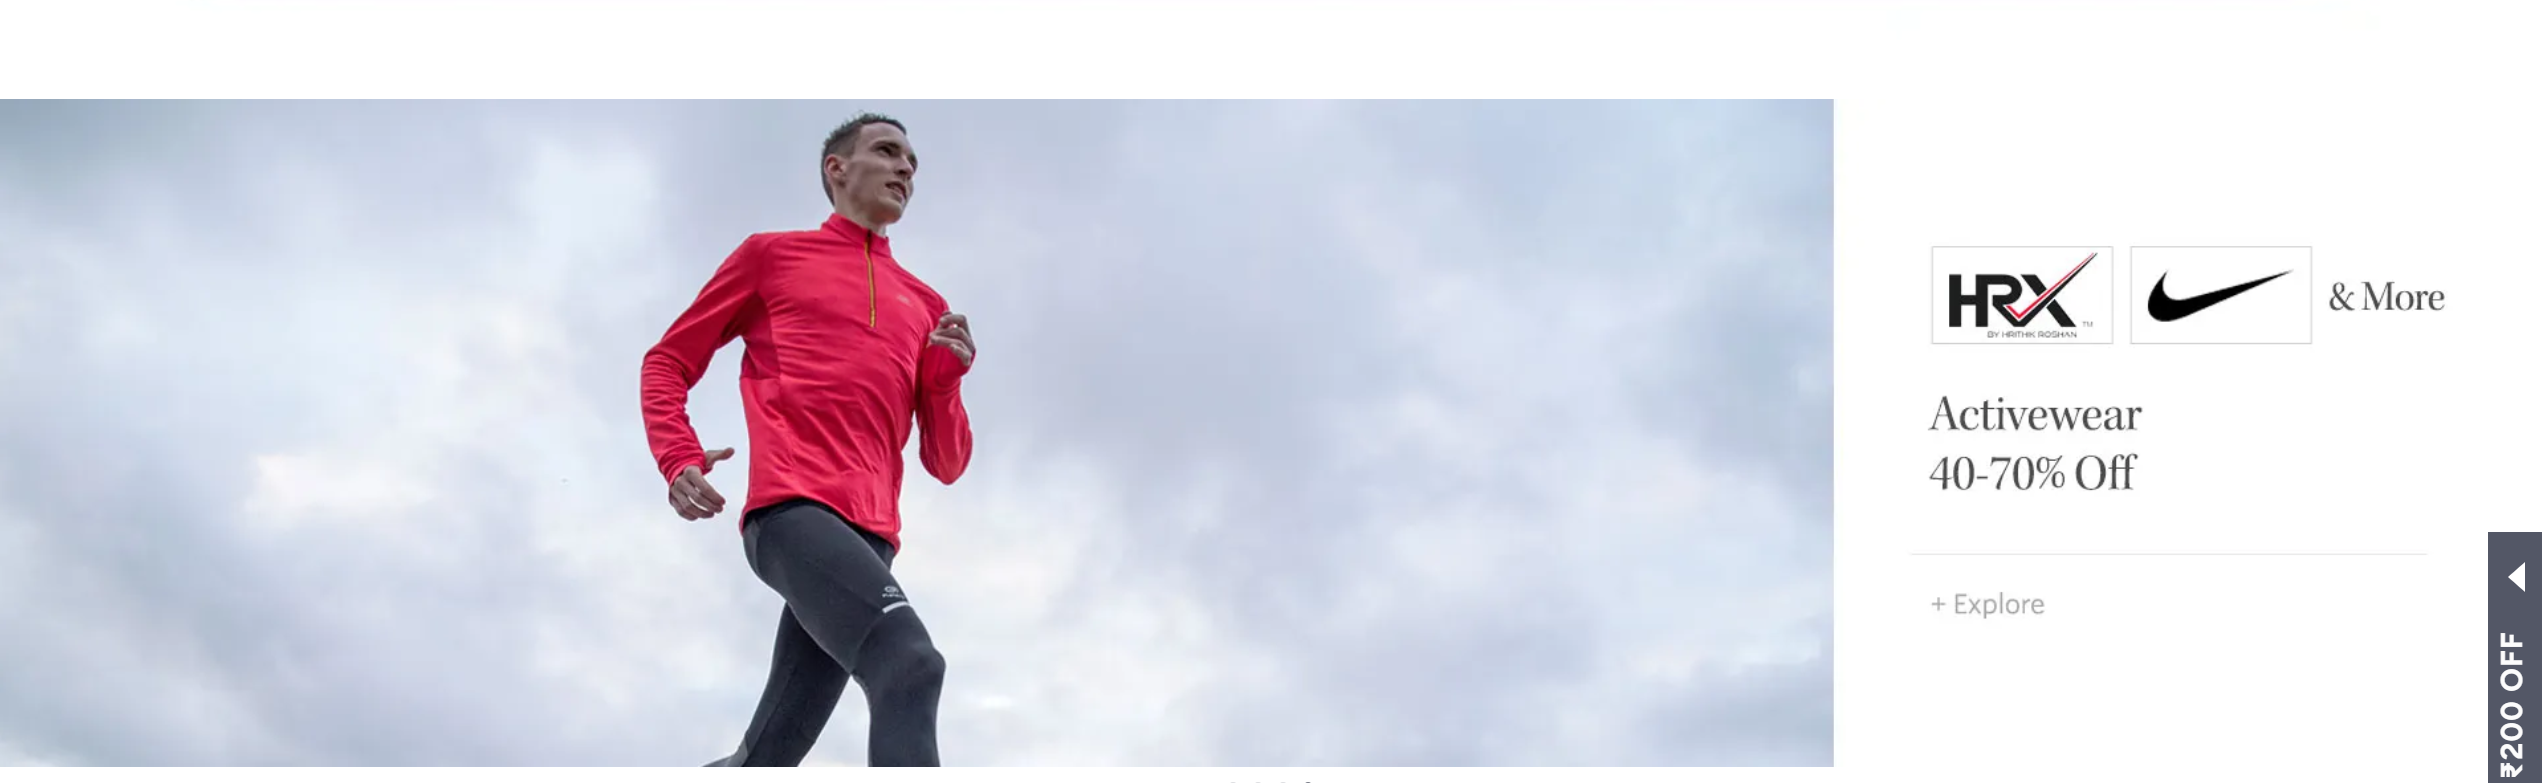
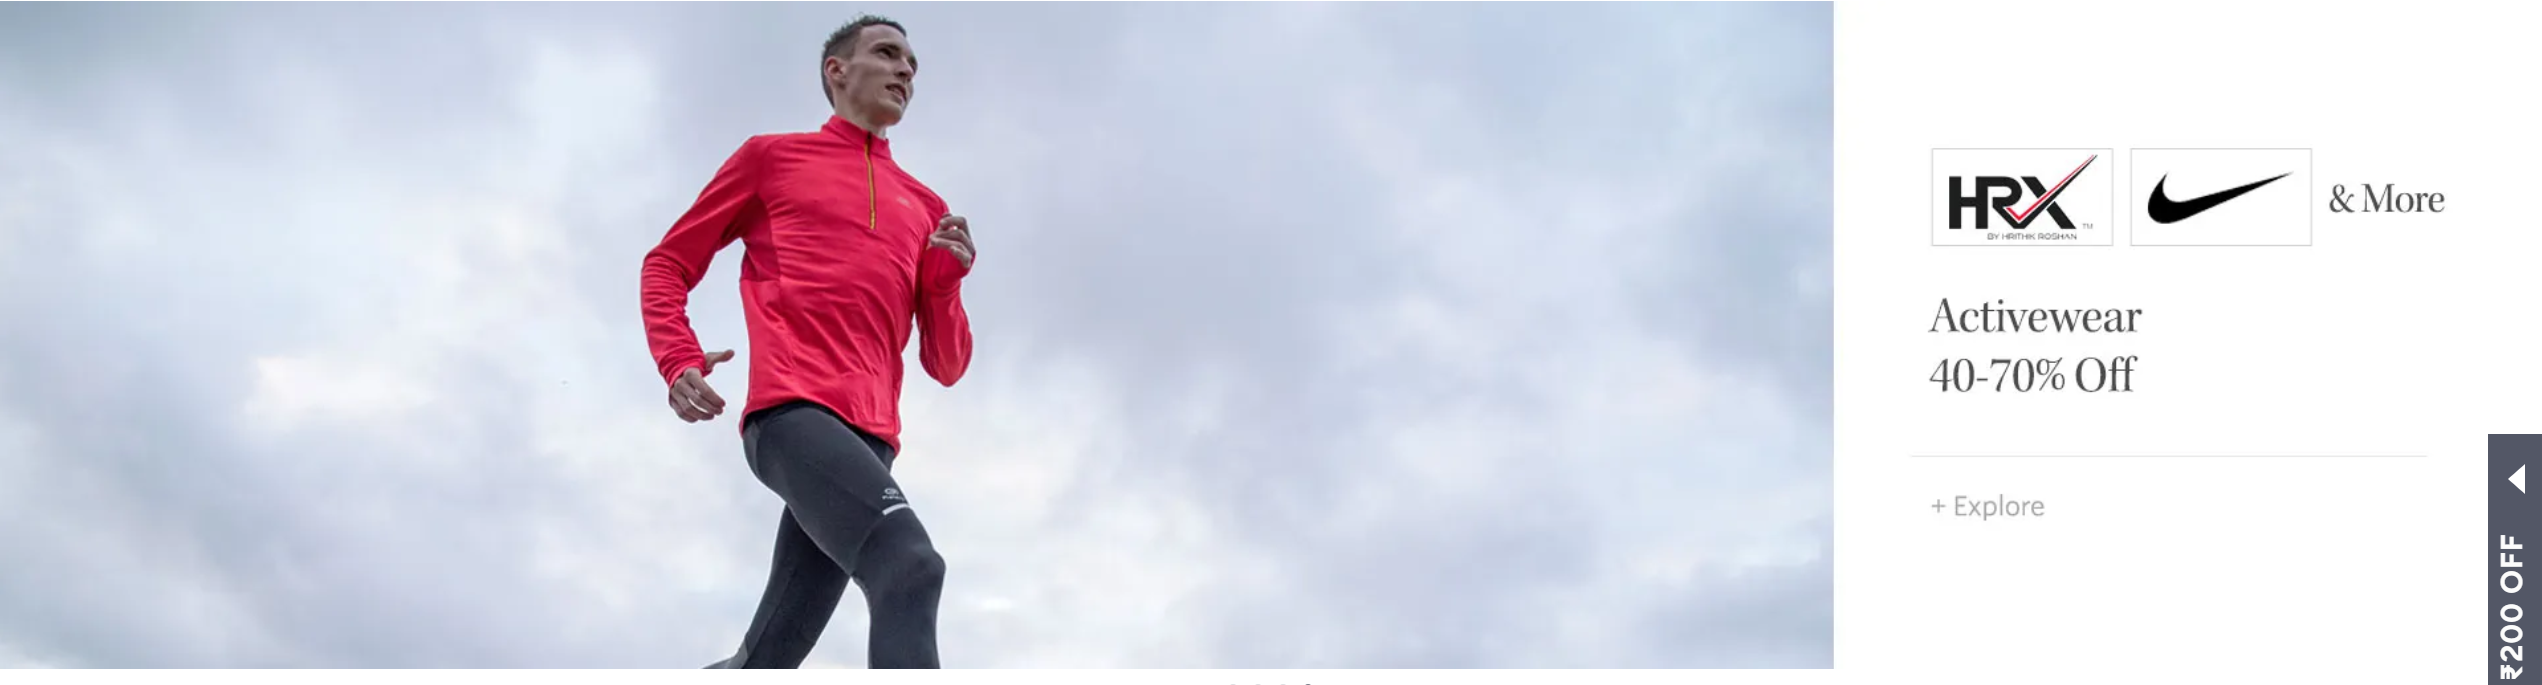
updating

diff --git a/style.css b/style.css
@@ -2,21 +2,21 @@
     margin: 0;
     padding: 0;
     box-sizing: border-box;
-    flex-shrink: 0;
+
+
 }
+
+body {}
 
 nav {
     display: flex;
     align-items: center;
     justify-content: space-between;
-
     width: 100%;
-
-    height: 80px;
-    padding: 0 40px;
-
-    background: #fff;
-    box-shadow: 0 4px 12px rgba(0, 0, 0, .08);
+    margin: 0 auto;
+    height: 75px;
+    position: fixed;
+    box-shadow: 0 2px 8px rgb(209, 208, 208);
 }
 
 .nav-left,
@@ -24,17 +24,17 @@ nav {
     display: flex;
     align-items: center;
 
-    justify-content: space-between;
-    gap: 28px;
+
 }
 
 .nav-links {
     display: flex;
     align-items: center;
     list-style: none;
-    gap: 35px;
-    font-size: 14px;
-    font-weight: 900;
+    gap: 15px;
+    font-size: 12px;
+    font-weight: 700;
+    margin: 0 15px;
 }
 
 .nav-links li a {
@@ -59,14 +59,17 @@ nav {
 
 .logo img {
     width: 60px;
+    margin: 20px 40px;
 }
 
 .search-box {
-    display: inline;
+    display: flex;
+    align-items: center;
     width: 400px;
-    line-height: 40px;
+    height: 30px;
+    background: #f5f5f6;
     border-radius: 4px;
-    background-color: #cccbcb;
+    padding: 0 15px;
 }
 
 .search-box input {
@@ -86,12 +89,15 @@ nav {
 }
 
 
-.nav-left div,
+.nav-right {
+    margin: 0 40px;
+}
+
 .nav-right div {
-    display: flex;
-    flex-direction: column;
-    align-items: center;
-    cursor: pointer;
+    margin: 0 1px;
+    text-align: center;
+
+    padding: 8px;
 }
 
 .nav-item img {
@@ -100,13 +106,16 @@ nav {
 }
 
 .nav-item p {
-    margin-top: 5px;
+
     font-size: 12px;
     font-weight: 600;
     color: #282c3f;
     font-family: Verdana, Geneva, Tahoma, sans-serif;
 }
 
+
 .mainPart img {
+
     width: 100%;
+
 }

diff --git a/index.html b/index.html
@@ -51,7 +51,7 @@
     </nav>
     <main>
         <section class="mainPart">
-            <img src="./assets/discount (1).png" alt="discount">
+            <img src="./assets/discount(1).png" alt="discount">
             <img src="./assets/hero.png" alt="hero">
         </section>
     </main>